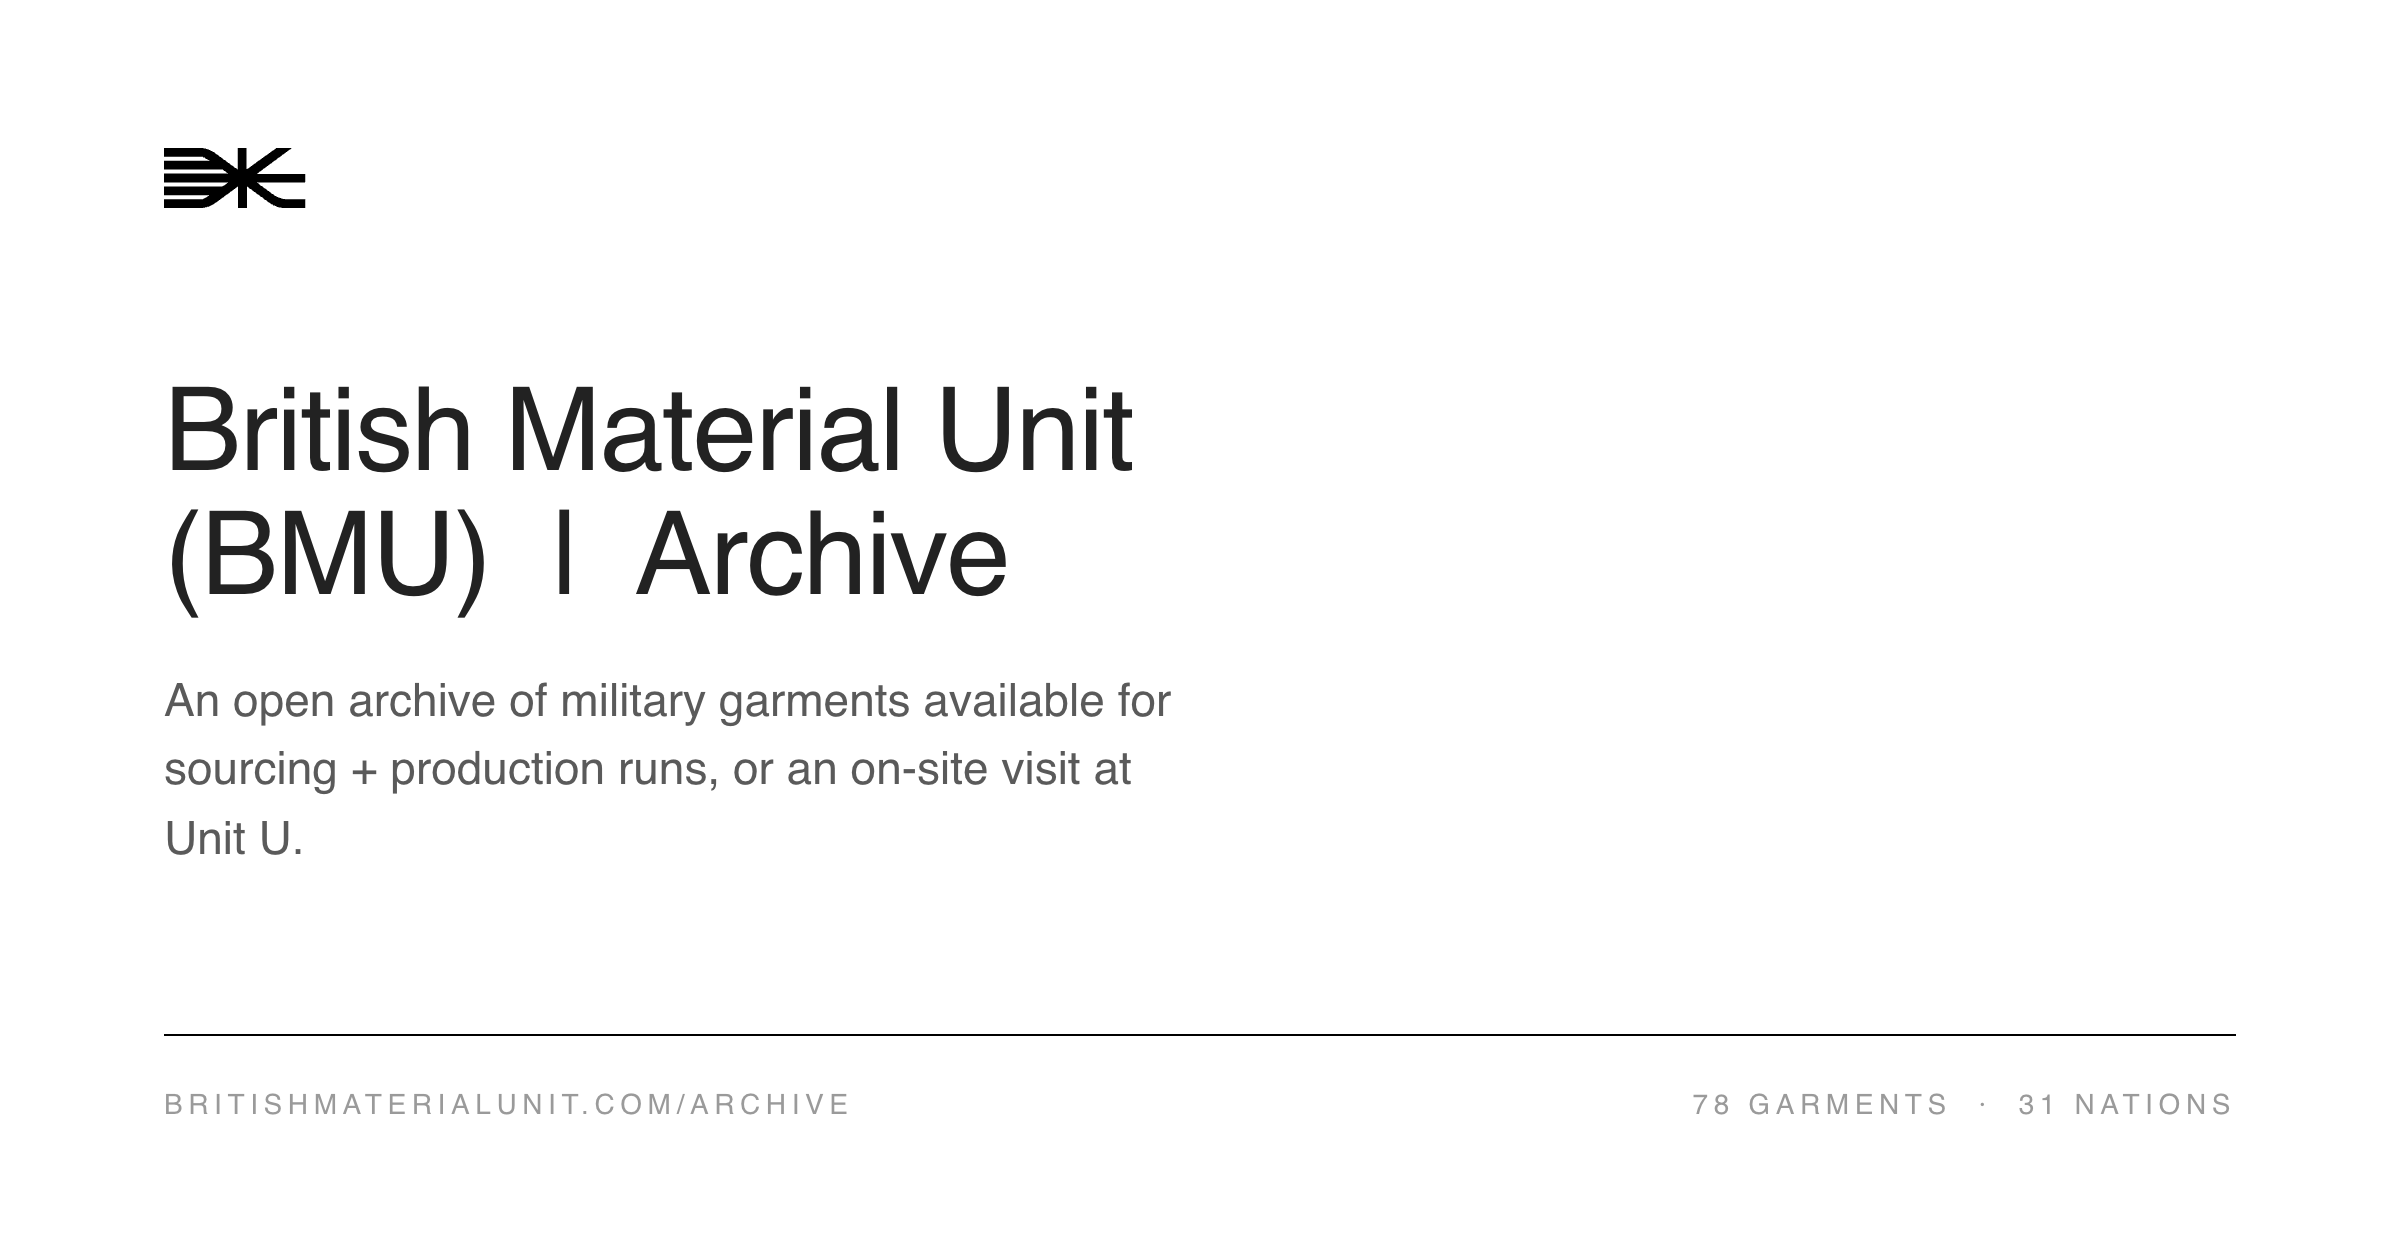
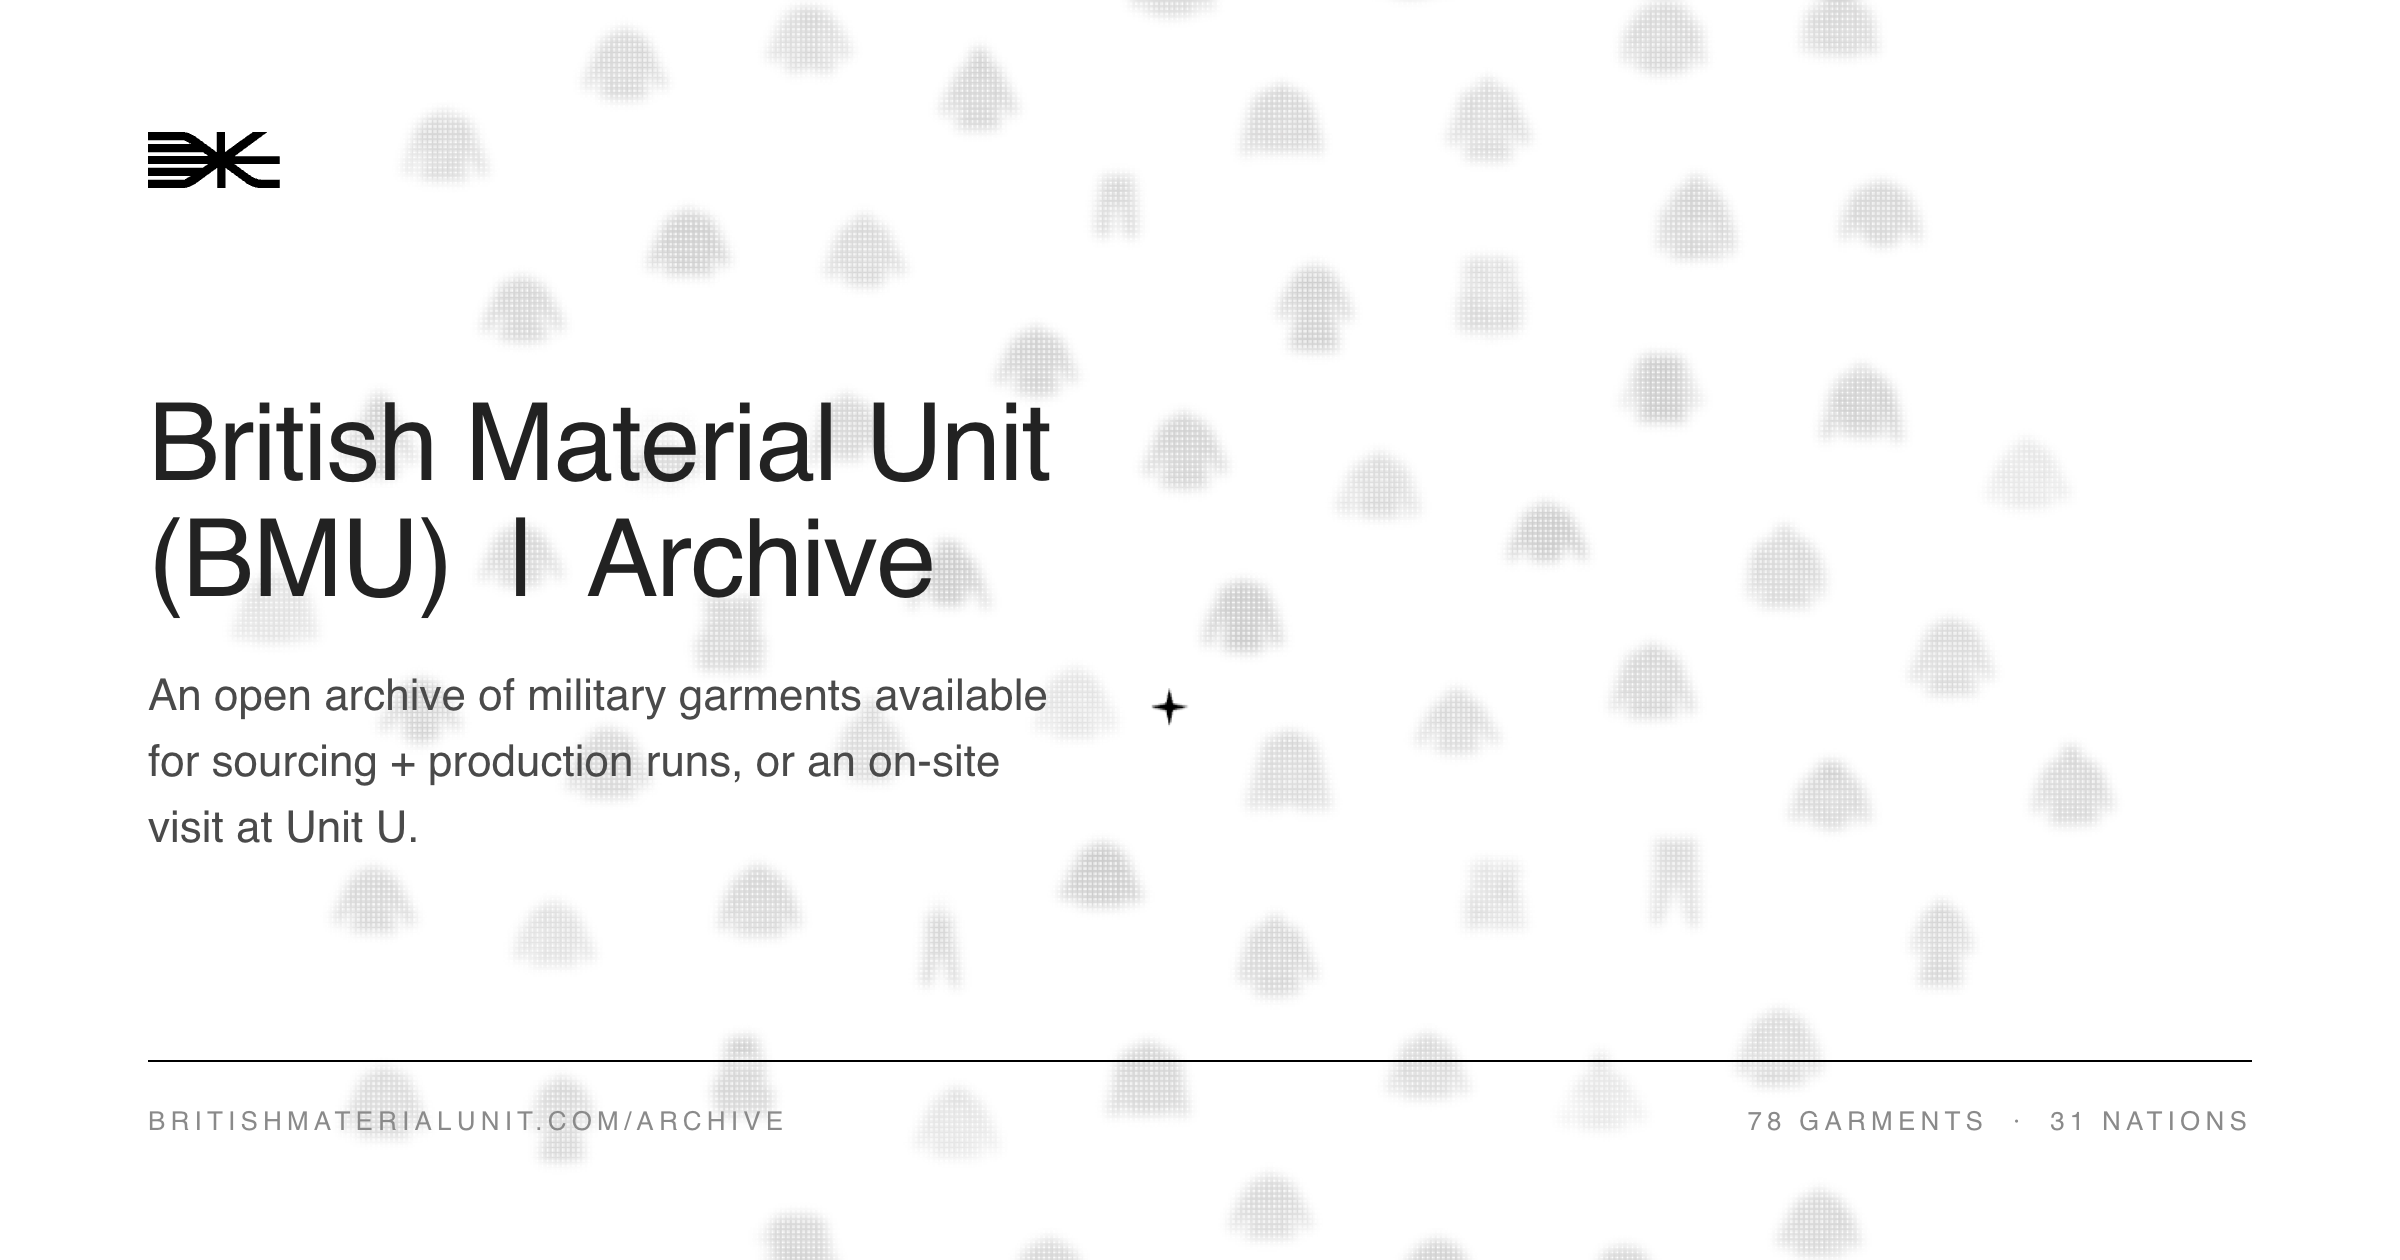
Archive link preview on the field image

diff --git a/archive.html b/archive.html
@@ -4507,7 +4507,7 @@
         dghost.hidden = dq.value !== '';
         paintHint(dq.value.trim().toLowerCase());
         // the rest of the archive stays, in grey, around the British cluster
-        clusterSearch(on ? '' : 'british', true, true);
+        clusterSearch(on ? '' : 'british', true);
         return;
       }
       const on = !nationsOpen;
@@ -4765,44 +4765,29 @@
 
     /* ---------- HOW A CLUSTER SITS ----------
        The spiral is a good answer for seventy garments and a poor one for
-       three. Its first point is not the centre — it is √0.5 of a spacing out
-       along the axis — so a cluster of ONE sat off to the side of a screen
-       it was supposed to be the whole of, and a cluster of three read as a
-       scatter rather than as three things.
+       one: its first point is not the centre but √0.5 of a spacing out
+       along the axis, so a cluster of ONE sat off to the side of a screen
+       it was supposed to be the whole of.
 
-       Small counts get a shape instead. One sits in the middle. Two sit side
-       by side. Three make a triad, and on up through the polygons — each on
-       a ring wide enough that neighbours clear each other by a full spacing,
-       and each turned so a point is at the top. Past six there is one in the
-       middle and the rest around it; past a dozen a ring is a worse picture
-       than a spiral and the spiral takes over.
+       So the smallest counts are placed by hand — one in the middle, two
+       side by side, three in a triangle — and everything past that is laid
+       out the way the main field is. A ring of six, or one in the middle
+       with a perfect circle around it, is a diagram; the archive is not
+       drawn as a diagram anywhere else and should not be here.
 
-       Every cluster in the field goes through here, so a nation, a search, a
-       collection and the whole archive are all arranged by the same rule. */
+       Every cluster in the field goes through this, so a nation, a search,
+       a collection and the whole archive are arranged by the same rule. */
     function packOffsets(n){
       if (n <= 0) return [];
       if (n === 1) return [[0, 0]];
       if (n === 2) return [[-SPACING / 2, 0], [SPACING / 2, 0]];
-
-      const TOP = -Math.PI / 2;                 // a point at the top
-      // neighbours exactly one spacing apart around the ring
-      const radiusFor = c => SPACING / (2 * Math.sin(Math.PI / c));
-      const ring = (count, radius) => {
-        const out = [];
-        for (let i = 0; i < count; i++){
-          const a = TOP + (Math.PI * 2 * i) / count;
-          out.push([Math.cos(a) * radius, Math.sin(a) * radius]);
-        }
-        return out;
-      };
-
-      if (n <= 6) return ring(n, radiusFor(n));
-
-      if (n <= 12){
-        // one in the middle, the rest around it — never closer to the
-        // middle one than the ring's own neighbours are to each other
-        const c = n - 1;
-        return [[0, 0]].concat(ring(c, Math.max(SPACING, radiusFor(c))));
+      if (n === 3){
+        // a triangle, point up, neighbours one spacing apart
+        const r = SPACING / Math.sqrt(3);
+        return [0, 1, 2].map(i => {
+          const a = -Math.PI / 2 + (Math.PI * 2 * i) / 3;
+          return [Math.cos(a) * r, Math.sin(a) * r];
+        });
       }
 
       const out = [];
@@ -4909,7 +4894,7 @@
 
        Pressing enter is the choosing. THAT regathers: the matches come into
        a spiral of their own and everything else goes. */
-    function clusterSearch(term, gather, greyRest){
+    function clusterSearch(term, gather){
       clearTimeout(clusterTimer);
       unframe();
       const els = [...spiral.children];
@@ -4949,33 +4934,31 @@
       if (!hit.length) return;
 
       if (!gather){
-        // still typing: dim the rest where they stand and travel to the first
+        /* Still typing. The rest of the archive greys around what is being
+           matched and nothing moves: the field used to travel to the first
+           hit on every keystroke, which threw the whole view about under
+           somebody who had not finished their word — and picked a garment
+           for them. Choosing is a separate act, and the chip on the right of
+           the bar is where it is made. */
         els.forEach(el => {
-          el.classList.toggle('sp-dim', !hit.includes(el));
-          el.classList.remove('sp-grey');
+          el.classList.toggle('sp-grey', !hit.includes(el));
+          el.classList.remove('sp-dim', 'sp-gone');
         });
-        clusterTimer = setTimeout(() => glide(() => focusItem(hit[0], maxScale() * 0.55), 700), 40);
         return;
       }
 
       /* Gathering. Every garment is laid back on its own spiral position
          first — placing only the matches on top of a field that never moved
          is what left garments sitting over one another. Then the matches are
-         drawn into the middle and the rest are taken off the field
-         altogether rather than dimmed, so nothing can overlap the cluster. */
+         drawn into the middle, and the rest of the archive stays where it is
+         in grey: how much there is, and how much of it is not this. They
+         used to be taken off the field altogether for a search, which
+         answered the question and threw away its context. */
       slide();
       layoutSpiral(spiralMode);
       els.forEach(el => {
-        const on = hit.includes(el);
-        /* Two ways to set the rest aside. Gone, for a search: the cluster is
-           the whole answer and anything else on the field is in its way.
-           Grey, for a nation: the reader asked for one country out of
-           thirty-odd and the rest of the archive standing around it in grey
-           is the answer — how much there is, and how much of it is not this.
-           Either way they cannot be pressed. */
-        el.classList.toggle('sp-gone',  !on && !greyRest);
-        el.classList.toggle('sp-grey',  !on && !!greyRest);
-        el.classList.remove('sp-dim');
+        el.classList.toggle('sp-grey', !hit.includes(el));
+        el.classList.remove('sp-dim', 'sp-gone');
       });
       const pts = packOffsets(hit.length);
       hit.forEach((el, i) => place(el, pts[i][0], pts[i][1]));
@@ -5033,7 +5016,7 @@
         framed ? 'Save this garment' : 'Gather saved garments');
       const on = framed
         ? isSaved(focusedItem.dataset.id)
-        : (explore.hidden ? savedOnly : spiralMode === 'saved');
+        : savedOnly;
       dockLibrary.setAttribute('aria-pressed', on ? 'true' : 'false');
     }
 
@@ -5473,18 +5456,20 @@
          over a field that had not gone anywhere. Nothing is marked until
          the move has actually been taken. */
       if (morphing) return;                 // the field is already moving
-      const next = spiralMode === 'saved' ? 'spiral' : 'saved';
-      if (next === 'saved' && !hasJoined()){
+      const entering = !savedOnly;
+      if (entering && !hasJoined()){
         openJoinGate(() => dockLibrary.click());
         return;
       }
-      morphLayout(next);
-      // the two views keep one answer to "am I in my collection?"
-      savedOnly = (next === 'saved');
-      document.body.classList.toggle('library', savedOnly);
-      if (savedOnly) reportShelf();
+      if (entering){
+        gatherSaved();                      // gathers, greys the rest, sets the state
+      } else {
+        savedOnly = false;
+        document.body.classList.remove('library');
+        clusterSearch('', true);            // every garment back on the field
+      }
       syncLibraryMark();
-      if (next === 'spiral'){
+      if (!entering){
         flagBtn.setAttribute('aria-pressed', 'false');
         dqFlag.setAttribute('aria-pressed', 'false');
       }
@@ -5509,7 +5494,7 @@
       dghost.hidden = dq.value !== '';
       paintHint(dq.value.trim().toLowerCase());
       // the rest of the archive stays, in grey, around the British cluster
-      clusterSearch(on ? '' : 'british', true, true);
+      clusterSearch(on ? '' : 'british', true);
     });
 
     /* From explore this is the way into the tab list — and the dock comes
@@ -5525,19 +5510,21 @@
       // back at the collection: tell us if it has moved since last time
       reportShelf();
       /* The field is now standing in the collection, and everything that
-         asks "am I in the collection?" — the mark on the button, the switch
-         the next press reads, the state the list inherits — has to be told
-         so. This used to set the mark alone, so the next press computed its
-         move from a spiralMode that still said 'spiral'. */
-      spiralMode = 'saved';
+         asks "am I in the collection?" — the mark on the button, the state
+         the list inherits — has to be told so.
+
+         It is NOT a layout mode. It used to be one, which sent everything
+         unkept to a cluster of its own sixteen spacings off the frame; the
+         collection is a cluster like any other now, so the rest of the
+         archive stays exactly where it is, in grey. */
       savedOnly = true;
       document.body.classList.add('library');
       els.forEach(el => {
-        el.classList.toggle('sp-gone', !keep.includes(el));
-        el.classList.remove('sp-dim');
+        el.classList.toggle('sp-grey', !keep.includes(el));
+        el.classList.remove('sp-dim', 'sp-gone');
         el.style.transition = 'left .8s cubic-bezier(.4,0,.2,1), top .8s cubic-bezier(.4,0,.2,1), opacity .45s cubic-bezier(.4,0,.2,1)';
       });
-      layoutSpiral(spiralMode);
+      layoutSpiral('spiral');
       const pts = packOffsets(keep.length);
       keep.forEach((el, i) => place(el, pts[i][0], pts[i][1]));
       setTimeout(() => {
